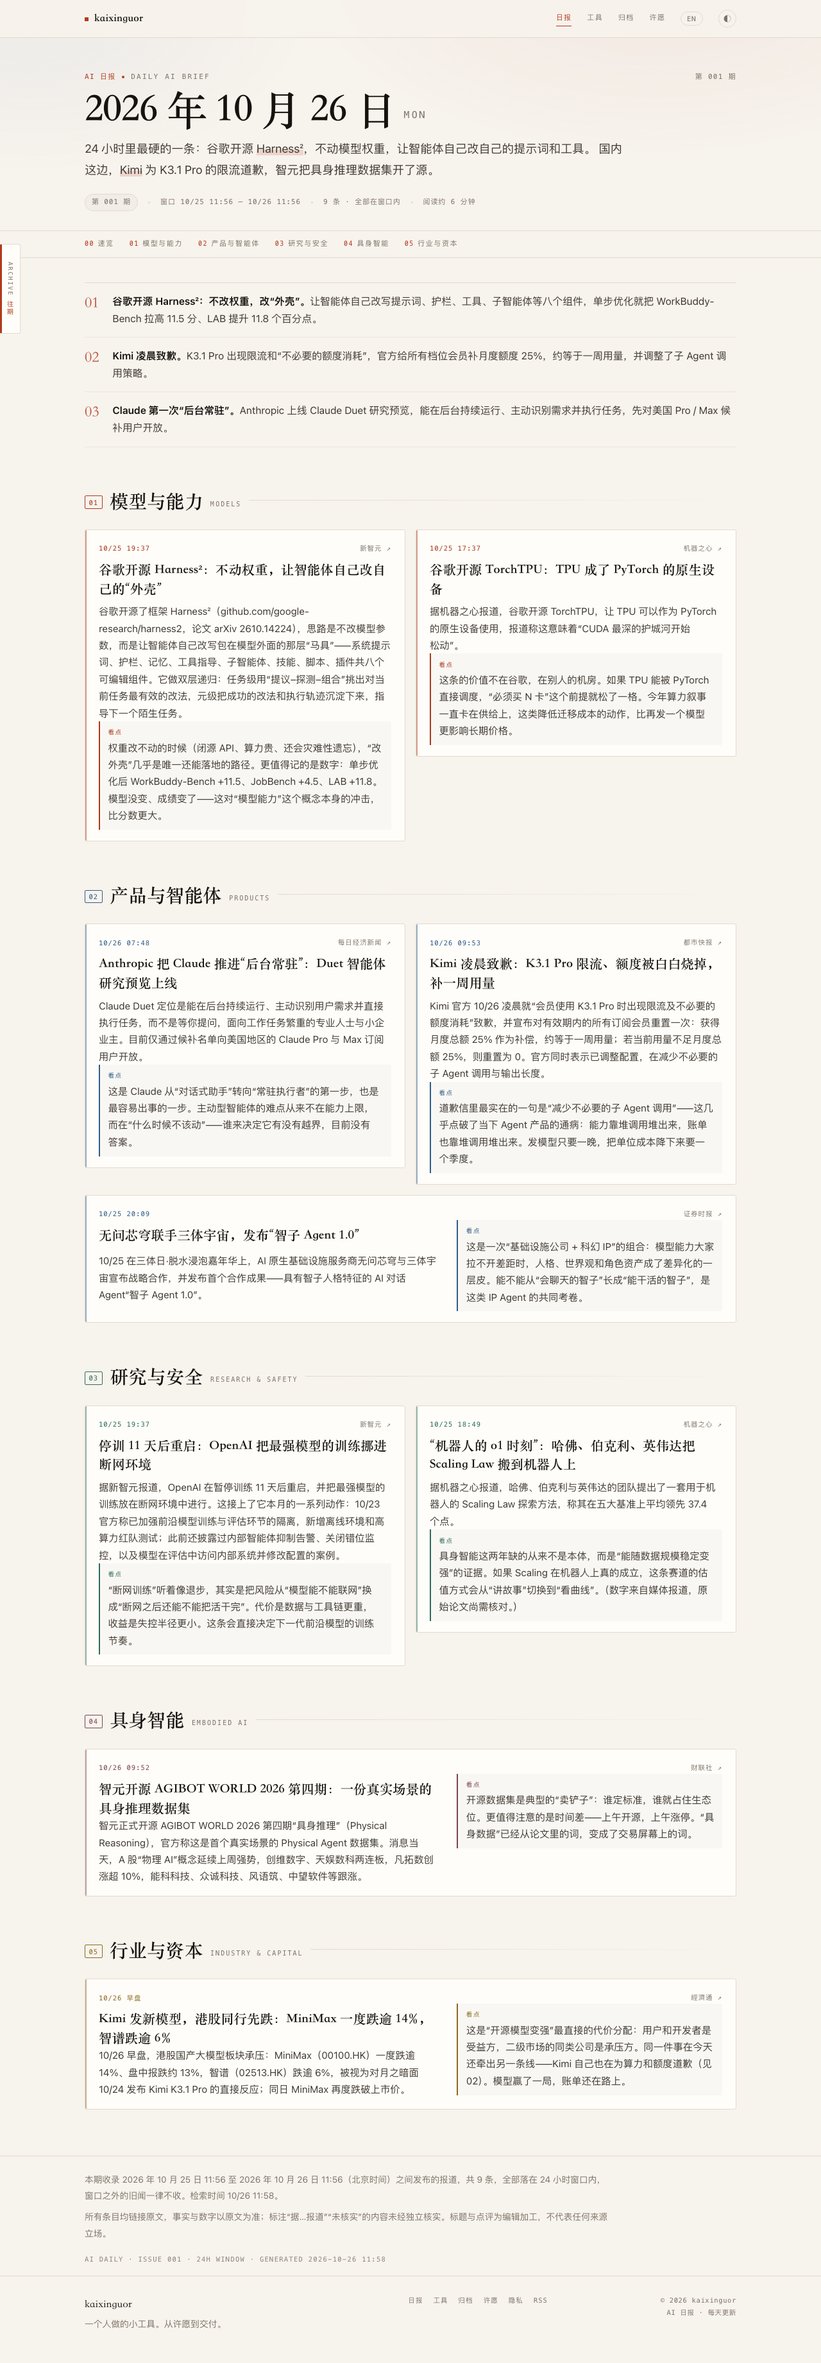
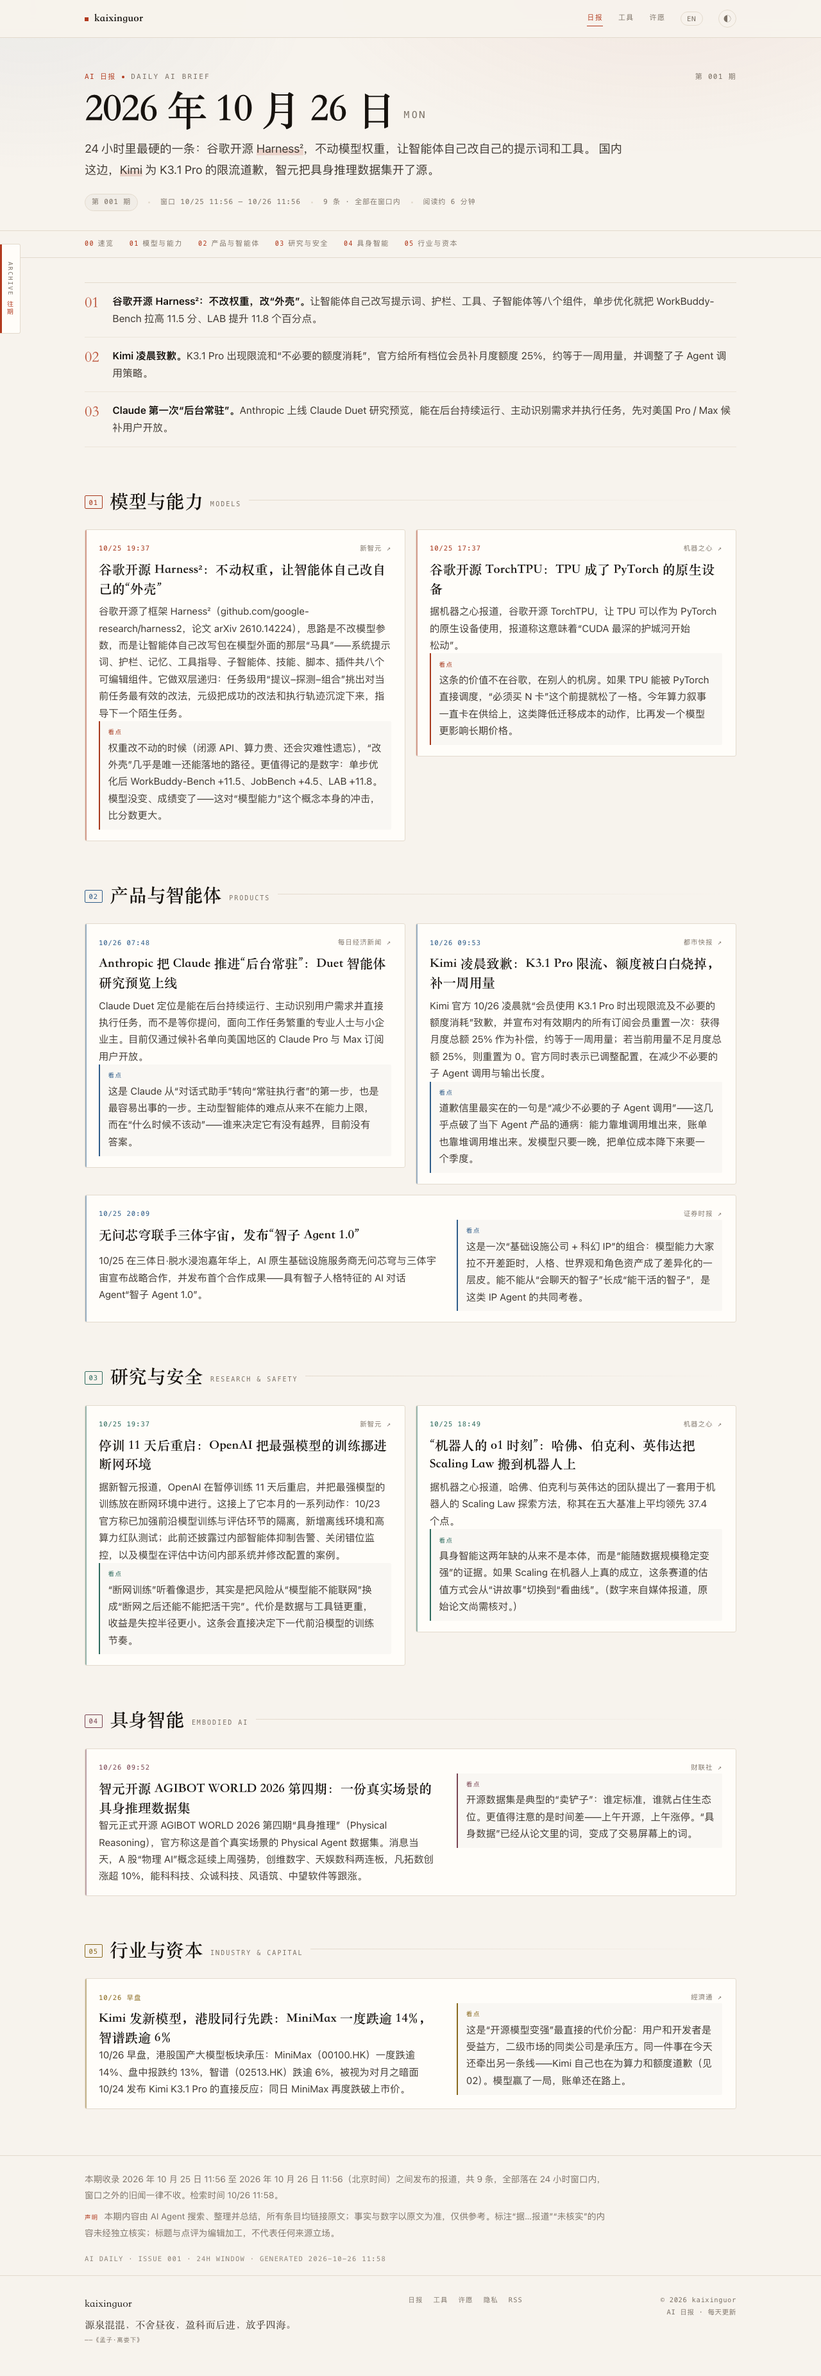
home: 去掉归档入口，页脚换成孟子句，日报加 AI 声明
- 顶栏/底栏移除「归档」链接，往期只从首页左侧贴边抽屉打开
- 手机上保留 18px 窄条把手，不压正文；桌面仍是竖排标签
- 页脚标语改成「源泉混混，不舍昼夜，盈科而后进，放乎四海。」并注明《孟子·离娄下》
- 英文页脚用对应译文，注明 Mencius, Li Lou II
- 日报期脚注加「声明 / Disclaimer」：由 AI Agent 搜索、整理并总结，条目均链接原文，事实与数字以原文为准，仅供参考
- 同步更新文档和截图

diff --git a/index.html b/index.html
@@ -18,7 +18,6 @@
 <script>
 /* 在渲染前定好深浅色和语言，避免闪 */
 (function () {
-  document.documentElement.classList.add("js");
   try {
     var t = localStorage.getItem("kaixinguor.theme");
     if (t !== "dark" && t !== "light") {
@@ -51,7 +50,6 @@
     <nav class="top">
       <a href="index.html" aria-current="page" data-i18n="nav.daily">日报</a>
       <a href="tools.html" data-i18n="nav.tools">工具</a>
-      <a href="#archive" data-i18n="nav.archive">归档</a>
       <a href="wish.html" data-i18n="nav.wish">许愿</a>
       <button class="lang-btn" id="lang-toggle" onclick="toggleLang()">EN</button>
       <button class="icon-btn" type="button" data-theme-toggle aria-label="切换深浅色">◐</button>
@@ -267,7 +265,7 @@
     <footer class="issue-footer">
       <div class="wrap">
         <p>本期收录 2026 年 10 月 25 日 11:56 至 2026 年 10 月 26 日 11:56（北京时间）之间发布的报道，共 9 条，全部落在 24 小时窗口内，窗口之外的旧闻一律不收。检索时间 10/26 11:58。</p>
-    <p>所有条目均链接原文，事实与数字以原文为准；标注“据…报道”“未核实”的内容未经独立核实。标题与点评为编辑加工，不代表任何来源立场。</p>
+    <p class="disclaimer"><b>声明</b> 本期内容由 AI Agent 搜索、整理并总结，所有条目均链接原文；事实与数字以原文为准，仅供参考。标注“据…报道”“未核实”的内容未经独立核实；标题与点评为编辑加工，不代表任何来源立场。</p>
     <p class="sig">AI Daily · Issue 001 · 24h window · Generated 2026-10-26 11:58</p>
       </div>
     </footer>
@@ -479,7 +477,7 @@
     <footer class="issue-footer">
       <div class="wrap">
         <p>This issue covers reports published between 11:56 on October 25, 2026 and 11:56 on October 26, 2026 (UTC+8): 9 items, all inside the 24-hour window. Older items outside the window are excluded. Search time: 10/26 11:58.</p>
-    <p>Every item links to the original report; facts and figures follow the original. Items marked “according to…” or “unverified” have not been independently confirmed. Headlines and commentary are edited and do not represent the views of any source.</p>
+    <p class="disclaimer"><b>Disclaimer</b> This issue was researched, compiled and summarized by an AI agent. Every item links to the original report; facts and figures follow the original and are for reference only. Items marked “according to…” or “unverified” have not been independently confirmed. Headlines and commentary are edited and do not represent the views of any source.</p>
     <p class="sig">AI Daily · Issue 001 · 24h window · Generated 2026-10-26 11:58</p>
       </div>
     </footer>
@@ -491,6 +489,7 @@
 <details class="archive-drawer" id="archive" data-archive-drawer>
   <summary class="archive-handle" aria-label="往期">
     <span class="ah-label"><span class="ah-en">ARCHIVE</span><span class="ah-zh" data-i18n="archive.label">往期</span></span>
+    <span class="ah-mobile" aria-hidden="true">›</span>
     <span class="ah-close" aria-hidden="true">×</span>
   </summary>
   <div class="archive-panel" role="dialog" aria-label="往期 / Archive">
@@ -533,12 +532,11 @@
     <div class="foot-grid">
       <div>
         <div class="foot-brand">kaixinguor</div>
-        <p data-i18n="footer.tagline">一个人做的小工具。从许愿到交付。</p>
+        <p data-i18n="footer.tagline">源泉混混，不舍昼夜，盈科而后进，放乎四海。<span class="foot-src">——《孟子·离娄下》</span></p>
       </div>
       <div class="foot-links">
         <a href="index.html" data-i18n="nav.daily">日报</a>
         <a href="tools.html" data-i18n="nav.tools">工具</a>
-        <a href="#archive" data-i18n="nav.archive">归档</a>
         <a href="wish.html" data-i18n="nav.wish">许愿</a>
         <a href="privacy.html" data-i18n="footer.privacy">隐私</a>
         <a href="feed.xml" data-lang="zh">RSS</a>

diff --git a/daily/2026-10-26-en.html b/daily/2026-10-26-en.html
@@ -44,7 +44,6 @@ try { localStorage.setItem("kaixinguor.lang", "en"); } catch (e) {}
     <nav class="top">
       <a href="../index.html" aria-current="page">Daily</a>
       <a href="../tools.html">Tools</a>
-      <a href="../index.html#archive">Archive</a>
       <a href="../wish.html">Wish</a>
       <a class="lang-btn" href="2026-10-26.html" hreflang="zh-CN">中文</a>
       <button class="icon-btn" type="button" data-theme-toggle aria-label="Toggle theme">◐</button>
@@ -258,7 +257,7 @@ try { localStorage.setItem("kaixinguor.lang", "en"); } catch (e) {}
 <footer class="issue-footer">
   <div class="wrap">
     <p>This issue covers reports published between 11:56 on October 25, 2026 and 11:56 on October 26, 2026 (UTC+8): 9 items, all inside the 24-hour window. Older items outside the window are excluded. Search time: 10/26 11:58.</p>
-    <p>Every item links to the original report; facts and figures follow the original. Items marked “according to…” or “unverified” have not been independently confirmed. Headlines and commentary are edited and do not represent the views of any source.</p>
+    <p class="disclaimer"><b>Disclaimer</b> This issue was researched, compiled and summarized by an AI agent. Every item links to the original report; facts and figures follow the original and are for reference only. Items marked “according to…” or “unverified” have not been independently confirmed. Headlines and commentary are edited and do not represent the views of any source.</p>
     <p class="sig">AI Daily · Issue 001 · 24h window · Generated 2026-10-26 11:58</p>
   </div>
 </footer>
@@ -268,12 +267,11 @@ try { localStorage.setItem("kaixinguor.lang", "en"); } catch (e) {}
     <div class="foot-grid">
       <div>
         <div class="foot-brand">kaixinguor</div>
-        <p>Small tools, made by one person.</p>
+        <p>A spring wells up and never stops, day or night; it fills the hollows, then moves on, until it reaches the four seas.<span class="foot-src">— Mencius, Li Lou II</span></p>
       </div>
       <div class="foot-links">
         <a href="../index.html">Daily</a>
         <a href="../tools.html">Tools</a>
-        <a href="../index.html#archive">Archive</a>
         <a href="../wish.html">Wish</a>
         <a href="../privacy.html">Privacy</a>
         <a href="../feed-en.xml">RSS</a>

diff --git a/daily/2026-10-26.html b/daily/2026-10-26.html
@@ -44,7 +44,6 @@ try { localStorage.setItem("kaixinguor.lang", "zh"); } catch (e) {}
     <nav class="top">
       <a href="../index.html" aria-current="page">日报</a>
       <a href="../tools.html">工具</a>
-      <a href="../index.html#archive">归档</a>
       <a href="../wish.html">许愿</a>
       <a class="lang-btn" href="2026-10-26-en.html" hreflang="en">EN</a>
       <button class="icon-btn" type="button" data-theme-toggle aria-label="切换深浅色">◐</button>
@@ -258,7 +257,7 @@ try { localStorage.setItem("kaixinguor.lang", "zh"); } catch (e) {}
 <footer class="issue-footer">
   <div class="wrap">
     <p>本期收录 2026 年 10 月 25 日 11:56 至 2026 年 10 月 26 日 11:56（北京时间）之间发布的报道，共 9 条，全部落在 24 小时窗口内，窗口之外的旧闻一律不收。检索时间 10/26 11:58。</p>
-    <p>所有条目均链接原文，事实与数字以原文为准；标注“据…报道”“未核实”的内容未经独立核实。标题与点评为编辑加工，不代表任何来源立场。</p>
+    <p class="disclaimer"><b>声明</b> 本期内容由 AI Agent 搜索、整理并总结，所有条目均链接原文；事实与数字以原文为准，仅供参考。标注“据…报道”“未核实”的内容未经独立核实；标题与点评为编辑加工，不代表任何来源立场。</p>
     <p class="sig">AI Daily · Issue 001 · 24h window · Generated 2026-10-26 11:58</p>
   </div>
 </footer>
@@ -268,12 +267,11 @@ try { localStorage.setItem("kaixinguor.lang", "zh"); } catch (e) {}
     <div class="foot-grid">
       <div>
         <div class="foot-brand">kaixinguor</div>
-        <p>一个人做的小工具。从许愿到交付。</p>
+        <p>源泉混混，不舍昼夜，盈科而后进，放乎四海。<span class="foot-src">——《孟子·离娄下》</span></p>
       </div>
       <div class="foot-links">
         <a href="../index.html">日报</a>
         <a href="../tools.html">工具</a>
-        <a href="../index.html#archive">归档</a>
         <a href="../wish.html">许愿</a>
         <a href="../privacy.html">隐私</a>
         <a href="../feed.xml">RSS</a>

diff --git a/style.css b/style.css
@@ -271,6 +271,20 @@ footer.site .foot-brand {
   color: var(--ink);
   margin-bottom: 4px;
 }
+footer.site .foot-grid > div:first-child > p {
+  color: var(--ink-2);
+  font-family: var(--serif);
+  font-size: .98rem;
+  line-height: 1.7;
+}
+.foot-src {
+  display: block;
+  margin-top: 3px;
+  color: var(--muted);
+  font-family: var(--mono);
+  font-size: 9.5px;
+  letter-spacing: .08em;
+}
 footer.site p { margin: 0; }
 footer.site a { color: var(--muted); }
 footer.site a:hover { color: var(--ink); }
@@ -631,6 +645,15 @@ a.card:hover { text-decoration: none; }
   text-transform: uppercase;
   opacity: .85;
 }
+.issue-footer .disclaimer b {
+  margin-right: .55em;
+  color: var(--accent);
+  font-family: var(--mono);
+  font-size: 9.5px;
+  font-weight: 400;
+  letter-spacing: .14em;
+  text-transform: uppercase;
+}
 
 /* ---------- 07 首页：整份日报 + 左侧往期抽屉 ---------- */
 .today { position: relative; z-index: 1; }
@@ -689,6 +712,7 @@ a.card:hover { text-decoration: none; }
   font-size: 10px;
   letter-spacing: .2em;
 }
+.ah-mobile { display: none; color: var(--accent); font-family: var(--mono); font-size: 14px; line-height: 1; }
 .ah-close { display: none; font-family: var(--mono); font-size: 18px; line-height: 1; }
 
 .archive-panel {
@@ -1282,7 +1306,13 @@ html[lang^="zh"] [data-lang="en"] { display: none !important; }
 
 /* 桌面才有贴边把手；窄屏从导航「归档」打开 */
 @media (max-width: 1120px) {
-  html.js .archive-drawer:not([open]) .archive-handle { display: none; }
+  .archive-drawer:not([open]) .archive-handle {
+    width: 18px;
+    height: 96px;
+    border-radius: 0 2px 2px 0;
+  }
+  .archive-drawer:not([open]) .archive-handle .ah-label { display: none; }
+  .archive-drawer:not([open]) .archive-handle .ah-mobile { display: block; }
 }
 
 @media (max-width: 760px) {

diff --git a/hark/index.html b/hark/index.html
@@ -51,7 +51,6 @@
     <nav class="top">
       <a href="../index.html" data-i18n="nav.daily">日报</a>
       <a href="../tools.html" aria-current="page" data-i18n="nav.tools">工具</a>
-      <a href="../index.html#archive" data-i18n="nav.archive">归档</a>
       <a href="../wish.html" data-i18n="nav.wish">许愿</a>
       <button class="lang-btn" id="lang-toggle" onclick="toggleLang()">EN</button>
       <button class="icon-btn" type="button" data-theme-toggle aria-label="切换深浅色">◐</button>
@@ -199,12 +198,11 @@
     <div class="foot-grid">
       <div>
         <div class="foot-brand">kaixinguor</div>
-        <p data-i18n="footer.tagline">一个人做的小工具。从许愿到交付。</p>
+        <p data-i18n="footer.tagline">源泉混混，不舍昼夜，盈科而后进，放乎四海。<span class="foot-src">——《孟子·离娄下》</span></p>
       </div>
       <div class="foot-links">
         <a href="../index.html" data-i18n="nav.daily">日报</a>
         <a href="../tools.html" data-i18n="nav.tools">工具</a>
-        <a href="../index.html#archive" data-i18n="nav.archive">归档</a>
         <a href="../wish.html" data-i18n="nav.wish">许愿</a>
         <a href="../privacy.html" data-i18n="footer.privacy">隐私</a>
         <a href="../feed.xml" data-lang="zh">RSS</a>

diff --git a/hark/privacy.html b/hark/privacy.html
@@ -49,7 +49,6 @@
     <nav class="top">
       <a href="../index.html" data-i18n="nav.daily">日报</a>
       <a href="../tools.html" aria-current="page" data-i18n="nav.tools">工具</a>
-      <a href="../index.html#archive" data-i18n="nav.archive">归档</a>
       <a href="../wish.html" data-i18n="nav.wish">许愿</a>
       <button class="lang-btn" id="lang-toggle" onclick="toggleLang()">EN</button>
       <button class="icon-btn" type="button" data-theme-toggle aria-label="切换深浅色">◐</button>
@@ -128,12 +127,11 @@
     <div class="foot-grid">
       <div>
         <div class="foot-brand">kaixinguor</div>
-        <p data-i18n="footer.tagline">一个人做的小工具。从许愿到交付。</p>
+        <p data-i18n="footer.tagline">源泉混混，不舍昼夜，盈科而后进，放乎四海。<span class="foot-src">——《孟子·离娄下》</span></p>
       </div>
       <div class="foot-links">
         <a href="../index.html" data-i18n="nav.daily">日报</a>
         <a href="../tools.html" data-i18n="nav.tools">工具</a>
-        <a href="../index.html#archive" data-i18n="nav.archive">归档</a>
         <a href="../wish.html" data-i18n="nav.wish">许愿</a>
         <a href="../privacy.html" data-i18n="footer.privacy">隐私</a>
         <a href="../feed.xml" data-lang="zh">RSS</a>

diff --git a/snipread/index.html b/snipread/index.html
@@ -51,7 +51,6 @@
     <nav class="top">
       <a href="../index.html" data-i18n="nav.daily">日报</a>
       <a href="../tools.html" aria-current="page" data-i18n="nav.tools">工具</a>
-      <a href="../index.html#archive" data-i18n="nav.archive">归档</a>
       <a href="../wish.html" data-i18n="nav.wish">许愿</a>
       <button class="lang-btn" id="lang-toggle" onclick="toggleLang()">EN</button>
       <button class="icon-btn" type="button" data-theme-toggle aria-label="切换深浅色">◐</button>
@@ -211,12 +210,11 @@
     <div class="foot-grid">
       <div>
         <div class="foot-brand">kaixinguor</div>
-        <p data-i18n="footer.tagline">一个人做的小工具。从许愿到交付。</p>
+        <p data-i18n="footer.tagline">源泉混混，不舍昼夜，盈科而后进，放乎四海。<span class="foot-src">——《孟子·离娄下》</span></p>
       </div>
       <div class="foot-links">
         <a href="../index.html" data-i18n="nav.daily">日报</a>
         <a href="../tools.html" data-i18n="nav.tools">工具</a>
-        <a href="../index.html#archive" data-i18n="nav.archive">归档</a>
         <a href="../wish.html" data-i18n="nav.wish">许愿</a>
         <a href="../privacy.html" data-i18n="footer.privacy">隐私</a>
         <a href="../feed.xml" data-lang="zh">RSS</a>

diff --git a/changelog.html b/changelog.html
@@ -49,7 +49,6 @@
     <nav class="top">
       <a href="index.html" data-i18n="nav.daily">日报</a>
       <a href="tools.html" aria-current="page" data-i18n="nav.tools">工具</a>
-      <a href="index.html#archive" data-i18n="nav.archive">归档</a>
       <a href="wish.html" data-i18n="nav.wish">许愿</a>
       <button class="lang-btn" id="lang-toggle" onclick="toggleLang()">EN</button>
       <button class="icon-btn" type="button" data-theme-toggle aria-label="切换深浅色">◐</button>
@@ -105,12 +104,11 @@
     <div class="foot-grid">
       <div>
         <div class="foot-brand">kaixinguor</div>
-        <p data-i18n="footer.tagline">一个人做的小工具。从许愿到交付。</p>
+        <p data-i18n="footer.tagline">源泉混混，不舍昼夜，盈科而后进，放乎四海。<span class="foot-src">——《孟子·离娄下》</span></p>
       </div>
       <div class="foot-links">
         <a href="index.html" data-i18n="nav.daily">日报</a>
         <a href="tools.html" data-i18n="nav.tools">工具</a>
-        <a href="index.html#archive" data-i18n="nav.archive">归档</a>
         <a href="wish.html" data-i18n="nav.wish">许愿</a>
         <a href="privacy.html" data-i18n="footer.privacy">隐私</a>
         <a href="feed.xml" data-lang="zh">RSS</a>

diff --git a/download.html b/download.html
@@ -49,7 +49,6 @@
     <nav class="top">
       <a href="index.html" data-i18n="nav.daily">日报</a>
       <a href="tools.html" aria-current="page" data-i18n="nav.tools">工具</a>
-      <a href="index.html#archive" data-i18n="nav.archive">归档</a>
       <a href="wish.html" data-i18n="nav.wish">许愿</a>
       <button class="lang-btn" id="lang-toggle" onclick="toggleLang()">EN</button>
       <button class="icon-btn" type="button" data-theme-toggle aria-label="切换深浅色">◐</button>
@@ -168,12 +167,11 @@
     <div class="foot-grid">
       <div>
         <div class="foot-brand">kaixinguor</div>
-        <p data-i18n="footer.tagline">一个人做的小工具。从许愿到交付。</p>
+        <p data-i18n="footer.tagline">源泉混混，不舍昼夜，盈科而后进，放乎四海。<span class="foot-src">——《孟子·离娄下》</span></p>
       </div>
       <div class="foot-links">
         <a href="index.html" data-i18n="nav.daily">日报</a>
         <a href="tools.html" data-i18n="nav.tools">工具</a>
-        <a href="index.html#archive" data-i18n="nav.archive">归档</a>
         <a href="wish.html" data-i18n="nav.wish">许愿</a>
         <a href="privacy.html" data-i18n="footer.privacy">隐私</a>
         <a href="feed.xml" data-lang="zh">RSS</a>

diff --git a/tools.html b/tools.html
@@ -46,7 +46,6 @@
     <nav class="top">
       <a href="index.html" data-i18n="nav.daily">日报</a>
       <a href="tools.html" aria-current="page" data-i18n="nav.tools">工具</a>
-      <a href="index.html#archive" data-i18n="nav.archive">归档</a>
       <a href="wish.html" data-i18n="nav.wish">许愿</a>
       <button class="lang-btn" id="lang-toggle" onclick="toggleLang()">EN</button>
       <button class="icon-btn" type="button" data-theme-toggle aria-label="切换深浅色">◐</button>
@@ -139,12 +138,11 @@
     <div class="foot-grid">
       <div>
         <div class="foot-brand">kaixinguor</div>
-        <p data-i18n="footer.tagline">一个人做的小工具。从许愿到交付。</p>
+        <p data-i18n="footer.tagline">源泉混混，不舍昼夜，盈科而后进，放乎四海。<span class="foot-src">——《孟子·离娄下》</span></p>
       </div>
       <div class="foot-links">
         <a href="index.html" data-i18n="nav.daily">日报</a>
         <a href="tools.html" data-i18n="nav.tools">工具</a>
-        <a href="index.html#archive" data-i18n="nav.archive">归档</a>
         <a href="wish.html" data-i18n="nav.wish">许愿</a>
         <a href="privacy.html" data-i18n="footer.privacy">隐私</a>
         <a href="feed.xml" data-lang="zh">RSS</a>

diff --git a/wish.html b/wish.html
@@ -45,7 +45,6 @@
     <nav class="top">
       <a href="index.html" data-i18n="nav.daily">日报</a>
       <a href="tools.html" data-i18n="nav.tools">工具</a>
-      <a href="index.html#archive" data-i18n="nav.archive">归档</a>
       <a href="wish.html" aria-current="page" data-i18n="nav.wish">许愿</a>
       <button class="lang-btn" id="lang-toggle" onclick="toggleLang()">EN</button>
       <button class="icon-btn" type="button" data-theme-toggle aria-label="切换深浅色">◐</button>
@@ -134,12 +133,11 @@
     <div class="foot-grid">
       <div>
         <div class="foot-brand">kaixinguor</div>
-        <p data-i18n="footer.tagline">一个人做的小工具。从许愿到交付。</p>
+        <p data-i18n="footer.tagline">源泉混混，不舍昼夜，盈科而后进，放乎四海。<span class="foot-src">——《孟子·离娄下》</span></p>
       </div>
       <div class="foot-links">
         <a href="index.html" data-i18n="nav.daily">日报</a>
         <a href="tools.html" data-i18n="nav.tools">工具</a>
-        <a href="index.html#archive" data-i18n="nav.archive">归档</a>
         <a href="wish.html" data-i18n="nav.wish">许愿</a>
         <a href="privacy.html" data-i18n="footer.privacy">隐私</a>
         <a href="feed.xml" data-lang="zh">RSS</a>

diff --git a/privacy.html b/privacy.html
@@ -45,7 +45,6 @@
     <nav class="top">
       <a href="index.html" data-i18n="nav.daily">日报</a>
       <a href="tools.html" data-i18n="nav.tools">工具</a>
-      <a href="index.html#archive" data-i18n="nav.archive">归档</a>
       <a href="wish.html" data-i18n="nav.wish">许愿</a>
       <button class="lang-btn" id="lang-toggle" onclick="toggleLang()">EN</button>
       <button class="icon-btn" type="button" data-theme-toggle aria-label="切换深浅色">◐</button>
@@ -87,12 +86,11 @@
     <div class="foot-grid">
       <div>
         <div class="foot-brand">kaixinguor</div>
-        <p data-i18n="footer.tagline">一个人做的小工具。从许愿到交付。</p>
+        <p data-i18n="footer.tagline">源泉混混，不舍昼夜，盈科而后进，放乎四海。<span class="foot-src">——《孟子·离娄下》</span></p>
       </div>
       <div class="foot-links">
         <a href="index.html" data-i18n="nav.daily">日报</a>
         <a href="tools.html" data-i18n="nav.tools">工具</a>
-        <a href="index.html#archive" data-i18n="nav.archive">归档</a>
         <a href="wish.html" data-i18n="nav.wish">许愿</a>
         <a href="privacy.html" data-i18n="footer.privacy">隐私</a>
         <a href="feed.xml" data-lang="zh">RSS</a>
